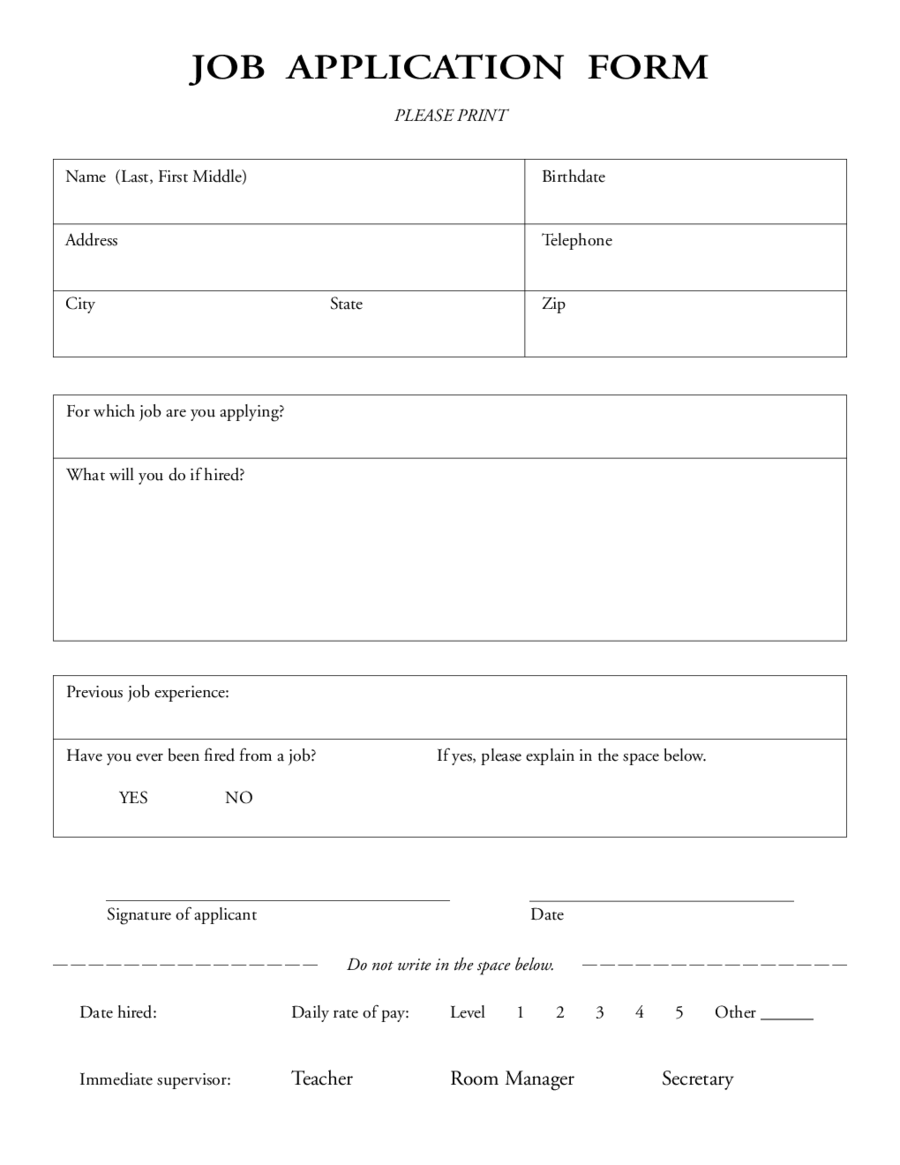
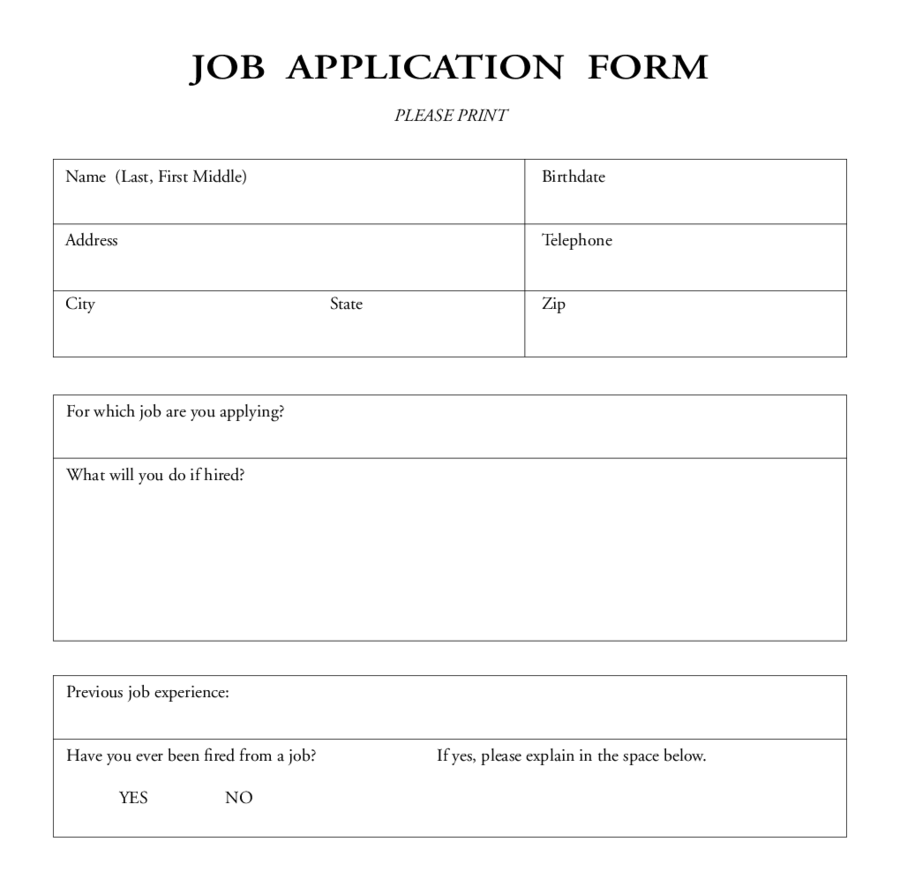
centered the image

diff --git a/website/templates/index.html b/website/templates/index.html
@@ -92,28 +92,7 @@
             color: white;
             }
 
-        .box{
-            width: 1000px;
-            height: 350px;
-            background-color: white;
-            border: 2px white;
-            position: absolute;
-            bottom: -300px;
-            left: 0px;
-            z-index: 10;
-            }
-
-        .box2{
-        width: 100px;
-        height: 20px;
-        background-color: white;
-        border: 2px white;
-        position: absolute;
-        top:820px;
-        left: 120px;
-        z-index: +9;
-        }
-
+        
         .demo_text{
             position: absolute;
             top: -300px;
@@ -131,6 +110,12 @@
             font-size: 100px;
             z-index: 10;    
         }
+
+        .image{
+            display: block;
+            margin: auto;
+        }
+        
     </style>
 
 
@@ -139,7 +124,7 @@
     </div>
 
     <div class= "birthdate">
-        <input type="text" id="birthdate" name="birthdate">
+        <input class="birthdate" type="text" id="birthdate" name="birthdate">
     </div>
 
 
@@ -202,7 +187,7 @@
     <div class= "box"></div>
     <div class= "box2"></div>
 
-    <img src="/static/form.png" height="1200" width="1000">
+    <img class= "image" src="/static/form.png" height="1200" width="1000">
 
 </body>
 
